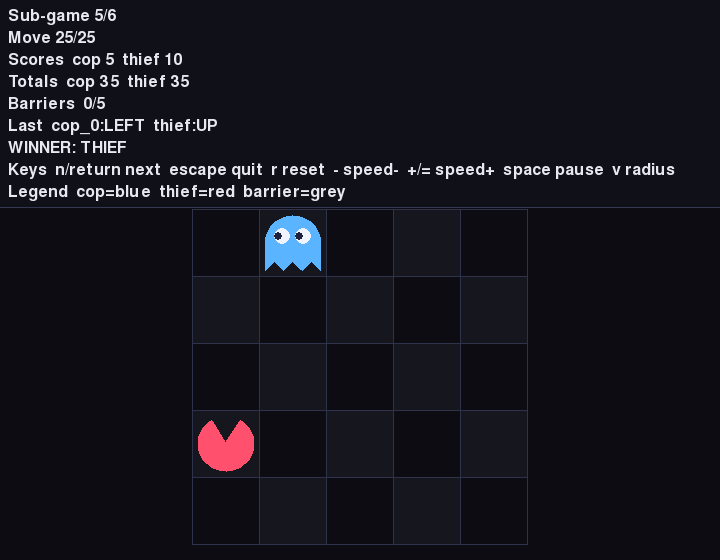
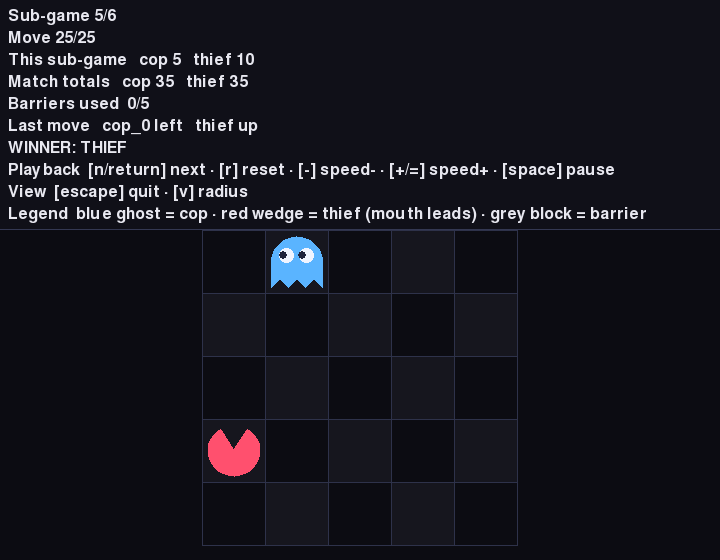
feat(§10): readable HUD + repo public again after the §9 match
REPO IS PUBLIC again (2026-08-04). It was private only for the §9 window so neither group
could train a best-response against the other's published weights (ANALYSIS §13); with the
match played and both reports agreed, exposure can no longer affect a result. The user was
shown that 7 pushed commits carry a personal email and home path in the notebook history
and chose to publish anyway — recording that here because the decision, not the default, is
what makes it correct.

That flip falsified the docs a previous round had just corrected, so the visibility guard
now tracks EXPECTED_VISIBILITY instead of hard-coding one direction. Worth naming: the old
guard forbade "repo is public" and kept PASSING on "the repo is **PUBLIC**" because markdown
bold sat between the words — it asserted the opposite of the truth and went green on a
formatting accident. The pattern now tolerates emphasis and the mutation test covers the
bold spelling explicitly.

HUD readability (the user could not parse it from a screenshot):
- "Scores"/"Totals" -> "This sub-game"/"Match totals". Neither label said WHICH scope, which
  is the one thing those two rows exist to distinguish.
- the eight key bindings ran together as one string AND overflowed the window at 789px in a
  720px frame. Now two labelled rows (Playback / View) with " · " between bindings and each
  key in brackets, since "r reset - speed-" gives no cue which token is the key.
[…]

diff --git a/tests/architecture/test_repo_visibility_claims.py b/tests/architecture/test_repo_visibility_claims.py
@@ -1,15 +1,15 @@
-"""No tracked doc may still describe this repository as public.
+"""No tracked doc may describe this repository's visibility incorrectly.
 
-The repo was flipped to PRIVATE so a §9 bonus opponent cannot train a best-response
-exploiter against our published weights (ANALYSIS §13). That flip invalidated prose in
-three separate files at once — ANALYSIS's risk paragraph ("our weights are in a PUBLIC
-repo"), TODO's T0.8 status line, and README's self-grade note — none of which any test
-covered, because each was a standalone sentence rather than a number.
+Visibility has flipped twice and both flips silently invalidated prose. It went PRIVATE for
+the §9 window so no opponent could train a best-response against our published weights
+(ANALYSIS §13), which falsified three files at once; it went PUBLIC again on 2026-08-04
+once the match was played and agreed, which falsified the corrections.
 
-This pins the DECISION, not the wording: any doc may discuss visibility freely, but none
-may assert this repo is public, and none may still call the lecturer's read access
-pending (it was accepted before submission). Rewording stays free; contradicting the
-decision does not.
+The guard therefore tracks the CURRENT state via `EXPECTED_VISIBILITY` rather than
+hard-coding one direction. Note the earlier version forbade the string "repo is public" and
+kept passing after the flip only because markdown bold sat between "is" and "public" — a
+pattern that matches prose is only as good as the prose it happens to see, so the assertion
+now names the state explicitly and the mutation test covers BOTH spellings.
 """
 
 from __future__ import annotations
@@ -22,10 +22,14 @@ import pytest
 _ROOT = Path(__file__).resolve().parents[2]
 _DOCS = ("README.md", "docs/ANALYSIS.md", "docs/TODO.md", "docs/PLAN.md", "docs/PRD.md")
 
-# Claims that a repo is public. Deliberately narrow: "the endpoints are publicly reachable"
-# (about the Render servers, and true) must stay legal.
-_PUBLIC_CLAIM = re.compile(
-    r"repo(?:sitory)?\s+is\s+public|public\s+repo(?:sitory)?\b",
+EXPECTED_VISIBILITY = "public"  # flipped back 2026-08-04, after the §9 match was agreed
+
+# Markdown emphasis may sit anywhere inside the claim ("the repo is **PUBLIC**"), so the
+# separator is permissive; the earlier version missed exactly that and passed a false doc.
+_GAP = r"[\s*_`]+"  # whitespace possibly wrapped in markdown emphasis
+_WRONG = "private" if EXPECTED_VISIBILITY == "public" else "public"
+_WRONG_CLAIM = re.compile(
+    rf"repo(?:sitory)?{_GAP}is{_GAP}{_WRONG}\b|{_WRONG}{_GAP}repo(?:sitory)?\b",
     re.IGNORECASE,
 )
 
@@ -49,10 +53,10 @@ def _offending_lines(
 
 
 @pytest.mark.parametrize("rel", _DOCS)
-def test_no_doc_claims_this_repo_is_public(rel: str) -> None:
-    """The repo is private; a doc saying otherwise misleads a grader reading it alone."""
-    hits = _offending_lines(_PUBLIC_CLAIM, rel, exempt=_OPPONENT_REPO)
-    assert not hits, "stale public-repo claim (the repo is PRIVATE):\n" + "\n".join(hits)
+def test_no_doc_states_the_wrong_visibility(rel: str) -> None:
+    """A doc naming the opposite visibility misleads a grader reading that file alone."""
+    hits = _offending_lines(_WRONG_CLAIM, rel, exempt=_OPPONENT_REPO)
+    assert not hits, f"doc says {_WRONG!r} but the repo is {EXPECTED_VISIBILITY!r}:\n" + "\n".join(hits)
 
 
 @pytest.mark.parametrize("rel", _DOCS)
@@ -63,14 +67,19 @@ def test_no_doc_leaves_the_lecturer_invite_pending(rel: str) -> None:
 
 
 def test_the_guard_detects_a_reintroduced_claim(tmp_path: Path) -> None:
-    """Mutation check — the patterns must actually fire on the exact prose we removed."""
-    assert _PUBLIC_CLAIM.search("our weights are in a PUBLIC repo, so a targeted exploiter")
-    assert _PUBLIC_CLAIM.search("No numeric self-grade is claimed in this public repo")
-    assert _PUBLIC_CLAIM.search("branch; the repo is PUBLIC; adding")
+    """Mutation check — must fire on the wrong-visibility prose, INCLUDING the bold spelling.
+
+    The bold case is the one that matters: the previous guard forbade "repo is public" and
+    kept passing on "the repo is **PUBLIC**" because the emphasis broke the word gap. A
+    pattern over prose is only as good as the spellings it actually sees.
+    """
+    assert _WRONG_CLAIM.search("the repo is private")
+    assert _WRONG_CLAIM.search("the repo is **PRIVATE**"), "markdown bold must not defeat it"
+    assert _WRONG_CLAIM.search("kept in a private repo for the §9 window")
     assert _PENDING_COLLAB.search(
         "`rmisegal`) as read collaborator is a pre-submission user action, still pending"
     )
-    # ...and must NOT fire on the legitimate statement about the Render endpoints,
-    # nor on ANALYSIS §13's reasoning about the OPPONENT's repo being public.
-    assert not _PUBLIC_CLAIM.search("the endpoints are publicly reachable, auth is in OUR app")
-    assert _OPPONENT_REPO.search("symmetrically: if their repo is public we can exploit them")
+    # ...and must NOT fire on prose stating the CURRENT (correct) visibility.
+    assert not _WRONG_CLAIM.search("the repo is **PUBLIC** again since 2026-08-04")
+    assert not _WRONG_CLAIM.search("the endpoints are publicly reachable, auth is in OUR app")
+    assert _OPPONENT_REPO.search("symmetrically: if their repo is private we cannot exploit them")

diff --git a/src/gui/draw_plan.py b/src/gui/draw_plan.py
@@ -26,19 +26,35 @@ _CMD_SHORT = {
 }
 
 
-def _help_line(supported_commands=None) -> str:
-    """The persistent HUD help/legend line — DERIVED from the real key bindings (never drifts).
+# Which commands belong on which help row. Split because all eight on one line rendered
+# 789px wide in a 720px window — it ran off the screen edge.
+_PLAYBACK = ("toggle_pause", "speed_up", "slow_down", "next_sub_game", "reset")
+
+
+def _help_lines(supported_commands=None) -> list[str]:
+    """The persistent HUD help rows — DERIVED from the real key bindings (never drift).
 
     ``supported_commands`` (a set, or ``None`` for all) drops keys the current frame
     source cannot honestly execute — e.g. 'n next' when the client has no
     ``next_sub_game`` — so the HUD never advertises a command that silently no-ops.
+
+    Two rows, playback then view: one row overflowed the window, and eight bindings run
+    together were unreadable even when they fitted. Each key is bracketed because
+    "r reset - speed-" gives no cue which token is the key and which is the action.
     """
     keys_by_cmd: dict[str, list[str]] = {}
     for key, cmd in bindings().items():
         if supported_commands is None or cmd in supported_commands:
             keys_by_cmd.setdefault(cmd, []).append(key)
-    parts = ["/".join(sorted(keys)) + " " + _CMD_SHORT[cmd] for cmd, keys in sorted(keys_by_cmd.items())]
-    return "Keys  " + "  ".join(parts)
+
+    def row(label: str, cmds) -> str | None:
+        parts = [
+            f"[{'/'.join(sorted(keys_by_cmd[c]))}] {_CMD_SHORT[c]}" for c in sorted(cmds) if c in keys_by_cmd
+        ]
+        return f"{label}  " + " · ".join(parts) if parts else None
+
+    rows = [row("Playback", _PLAYBACK), row("View", set(keys_by_cmd) - set(_PLAYBACK))]
+    return [r for r in rows if r]
 
 
 def hud_height(frame: SpectatorFrame) -> int:
@@ -68,17 +84,19 @@ def build_hud_plan(frame: SpectatorFrame, supported_commands=None, width: int | 
     lines = [
         f"Sub-game {frame.sub_game}/{frame.num_games}",
         f"Move {frame.move}/{frame.max_moves}",
-        f"Scores  cop {frame.scores['cop']}  thief {frame.scores['thief']}",
-        f"Totals  cop {frame.totals['cop']}  thief {frame.totals['thief']}",
+        f"This sub-game   cop {frame.scores['cop']}   thief {frame.scores['thief']}",
+        f"Match totals   cop {frame.totals['cop']}   thief {frame.totals['thief']}",
     ]
     if frame.max_barriers:  # §3.3 budget — omitted when the frame source doesn't know it
-        lines.append(f"Barriers  {len(frame.barriers)}/{frame.max_barriers}")
+        lines.append(f"Barriers used  {len(frame.barriers)}/{frame.max_barriers}")
     if frame.last_action:
-        lines.append("Last  " + "  ".join(f"{k}:{v}" for k, v in frame.last_action.items()))
+        lines.append("Last move   " + "   ".join(f"{k} {v.lower()}" for k, v in frame.last_action.items()))
     if frame.winner:
         lines.append(f"WINNER: {frame.winner.upper()}")
-    lines.append(_help_line(supported_commands))  # persistent key-bindings help (§10.2 Nielsen 6 + 10)
-    lines.append("Legend  cop=blue  thief=red  barrier=grey")  # token legend (own line — fits 720px)
+    lines += _help_lines(supported_commands)  # persistent key-bindings help (§10.2 Nielsen 6 + 10)
+    # Names the SHAPES, not just the colours: since the arcade sprites landed, "cop=blue"
+    # described a hue but not the blue GHOST the viewer is actually looking at.
+    lines.append("Legend  blue ghost = cop · red wedge = thief (mouth leads) · grey block = barrier")
     text_ops = [
         {"kind": "text", "pos": (8, 8 + i * (palette.FONT_PX + 4)), "text": t, "color": palette.TEXT}
         for i, t in enumerate(lines)

diff --git a/tests/unit/test_draw_plan.py b/tests/unit/test_draw_plan.py
@@ -74,9 +74,11 @@ def test_hud_plan_has_move_scores_and_winner():
     """The HUD renders move, scores, TOTALS, last action, a winner banner, and the help line."""
     texts = [op["text"] for op in build_hud_plan(_frame(winner="cop"))]
     assert any("Move 4/25" in t for t in texts)
-    assert any("Scores" in t for t in texts)
-    assert any("Totals" in t for t in texts)
-    assert any("Last" in t for t in texts)
+    # Labels say WHICH scope: "Scores"/"Totals" alone did not distinguish this sub-game
+    # from the match, which is the one thing a viewer most needs from those two rows.
+    assert any("This sub-game" in t for t in texts)
+    assert any("Match totals" in t for t in texts)
+    assert any("Last move" in t for t in texts)
     assert any("WINNER: COP" in t for t in texts)
     assert all(op["kind"] == "text" for op in build_hud_plan(_frame()))
 
@@ -97,11 +99,17 @@ def test_board_reserves_the_hud_strip_at_the_shipped_window_size():
 def test_hud_help_line_is_derived_from_the_real_bindings():
     """The persistent help + legend lines list every bound command (derived, so they can't drift)."""
     texts = [op["text"] for op in build_hud_plan(_frame())]
-    help_line, legend = texts[-2], texts[-1]
-    assert help_line.startswith("Keys")
-    for fragment in ("space pause", "v radius", "escape quit"):
-        assert fragment in help_line
-    assert legend.startswith("Legend") and "cop=blue" in legend
+    playback, view, legend = texts[-3], texts[-2], texts[-1]
+    assert playback.startswith("Playback") and view.startswith("View")
+    # Each key is bracketed and bindings are separated — one run-on row was unreadable
+    # AND overflowed the 720px window at 789px.
+    for fragment in ("[space] pause", "[v] radius", "[escape] quit"):
+        assert fragment in playback + view
+    # The legend must name the SHAPES: since the arcade sprites landed, a colour alone
+    # does not tell the viewer they are looking at a ghost and a wedge.
+    assert legend.startswith("Legend")
+    for fragment in ("ghost", "wedge", "barrier"):
+        assert fragment in legend
 
 
 def test_hud_plan_omits_last_and_winner_on_opening_frame():
@@ -135,10 +143,11 @@ def test_view_radius_overlay_covers_every_cop():
 
 def test_help_line_drops_commands_the_frame_source_cannot_do():
     """The HUD 'n next' hint disappears when next_sub_game is unsupported (wave-2 G5)."""
-    all_texts = [op["text"] for op in build_hud_plan(_frame())]
-    assert "next" in all_texts[-2]  # default (None) advertises the full binding set
+    all_help = " ".join(op["text"] for op in build_hud_plan(_frame())[-3:])
+    assert "next" in all_help  # default (None) advertises the full binding set
     limited = frozenset({"toggle_pause", "reset", "toggle_view_radius", "quit", "speed_up", "slow_down"})
     texts = [op["text"] for op in build_hud_plan(_frame(), limited)]
-    assert "next" not in texts[-2]  # the honest HUD for a client without next_sub_game
-    assert "pause" in texts[-2] and "quit" in texts[-2]
-    assert len(texts) == len(all_texts)  # line COUNT unchanged -> hud_height stays valid
+    help_rows = " ".join(texts[-3:])
+    assert "next" not in help_rows  # the honest HUD for a client without next_sub_game
+    assert "pause" in help_rows and "quit" in help_rows
+    assert len(texts) == len(build_hud_plan(_frame()))  # line COUNT unchanged -> hud_height valid

diff --git a/tests/unit/test_gui_polish.py b/tests/unit/test_gui_polish.py
@@ -39,21 +39,21 @@ def _texts(frame) -> list[str]:
 
 
 def test_hud_shows_barriers_placed_over_budget() -> None:
-    """Two barriers placed out of a budget of 5 must read 'Barriers  2/5'."""
+    """Two barriers placed out of a budget of 5 must read 'Barriers used  2/5'."""
     line = next(t for t in _texts(_frame(max_barriers=5)) if t.startswith("Barriers"))
-    assert line == "Barriers  2/5"
+    assert line == "Barriers used  2/5"
 
 
 def test_barrier_line_tracks_the_actual_placements() -> None:
     """The count is derived from the frame's barriers — it cannot drift from the board."""
     frame = _frame(barriers=((0, 0), (1, 1), (2, 2), (3, 3)), max_barriers=5)
-    assert "Barriers  4/5" in _texts(frame)
+    assert "Barriers used  4/5" in _texts(frame)
 
 
 def test_exhausted_budget_is_visible() -> None:
     """A cop with no barriers left must be able to see that from the HUD alone."""
     frame = _frame(barriers=tuple((0, i) for i in range(5)), max_barriers=5)
-    assert "Barriers  5/5" in _texts(frame)
+    assert "Barriers used  5/5" in _texts(frame)
 
 
 def test_hud_omits_the_barrier_line_when_the_budget_is_unknown() -> None:

diff --git a/docs/ANALYSIS.md b/docs/ANALYSIS.md
@@ -338,10 +338,12 @@ vs an opponent fielding a **net-quality thief** we likely lose (P ≈ 0.08) — 
 constraint is **our cop** (proxy p=16/120 vs a net evader, likely pessimistic since the proxy
 is our own co-adapted thief). Honest risks, stated plainly: a targeted exploiter takes only
 ~2 min to train **given the weights**, so weight visibility is the dominant risk lever — this
-repo is now **private** (read access granted to the lecturer only), which removes that lever
-for an opponent but does **not** remove it symmetrically: if their repo is public we can
-exploit them and they cannot exploit us, and if theirs is private too the matchup is blind on
-both sides. Blind is the case we plan for, and it is the case the table above measures.
+weight visibility is the dominant risk lever. It was managed by TIMING rather than by
+secrecy: the repo stayed **private for the whole §9 negotiation and match** — read access to
+the lecturer only — so neither group could train a best-response against the other's
+published weights, and both sides played blind. That is the case the table above measures.
+The repo was made **public after the match was played and both reports were agreed**, when
+exposure can no longer affect a result.
 §9 pays win +10 / **loss +7 / tie +5** (a tie is worth *less* than a
 loss); and the bonus requires both groups' valid emails with `mutual_agreement=true`, else
 both score 0. Full matrix, scoring model, and 12 caveats: `results/bonus/stress_report.json`.

diff --git a/docs/TODO.md b/docs/TODO.md
@@ -91,10 +91,10 @@ Both sign off on every ADR before its code lands (PRD/PLAN edit first → then e
 
 - [x] **T0.8 — Repo sharing & branch** · _B_
   Repo sharing + branch hygiene. AS BUILT: development runs on `main` (feature branches merged, e.g.
-  `bonus/minimax-q-baseline`) rather than a long-lived `assignment-6` branch; the repo is **PRIVATE**
-  (flipped from public so a §9 opponent cannot train a best-response exploiter against our published
-  weights — see ANALYSIS §13); `rmisegal` (Dr. Yoram Segal) has **accepted** read access, so the
-  `github_repo` URL in the §3.5 report resolves for the grader. Keep a `/tmp` clone to recover `.git` (MEMORY: Google-Drive sync
+  `bonus/minimax-q-baseline`) rather than a long-lived `assignment-6` branch; the repo is **PUBLIC** again
+  since 2026-08-04. It was flipped private for the §9 window (so no opponent could train a
+  best-response against our published weights — ANALYSIS §13) and restored once the match was
+  played and agreed. `rmisegal` (Dr. Yoram Segal) also holds accepted read access from that period. Keep a `/tmp` clone to recover `.git` (MEMORY: Google-Drive sync
   silently deletes `.git`; push often).
   **DoD (as built):** repo public + pushed; solo submission (one Moodle URL); collaborator add = the
   explicit pre-submission checklist item.
